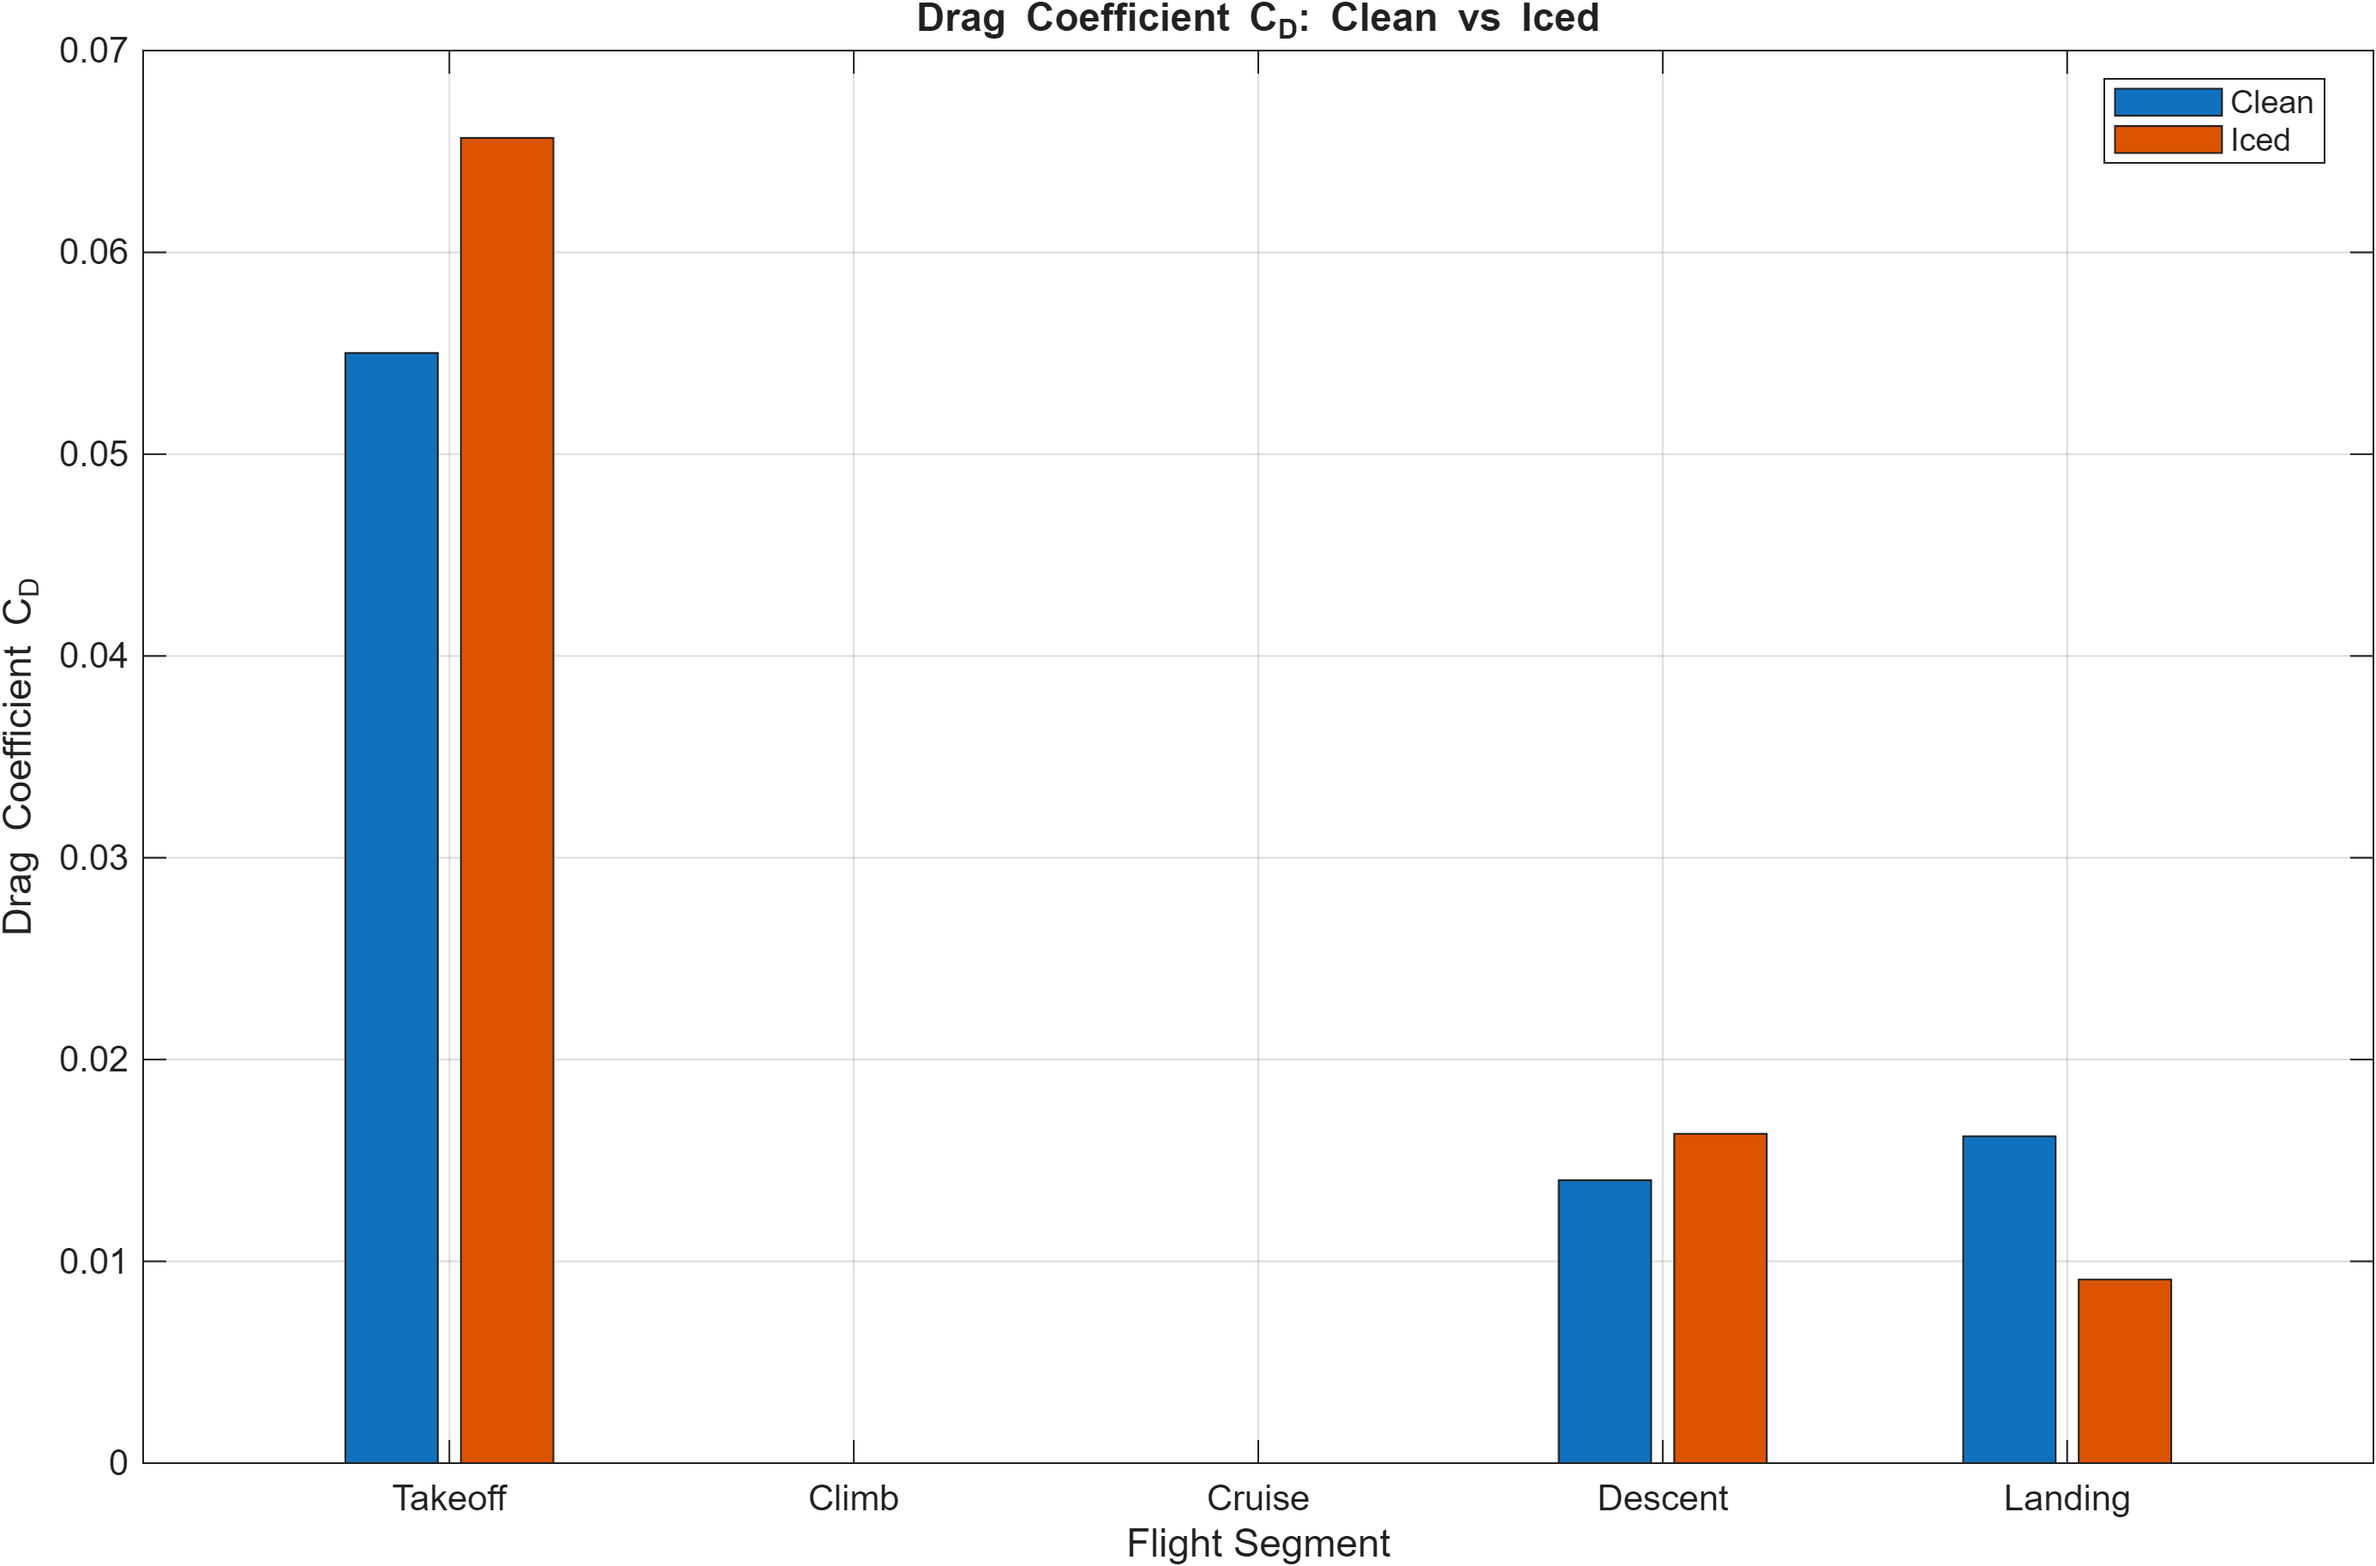
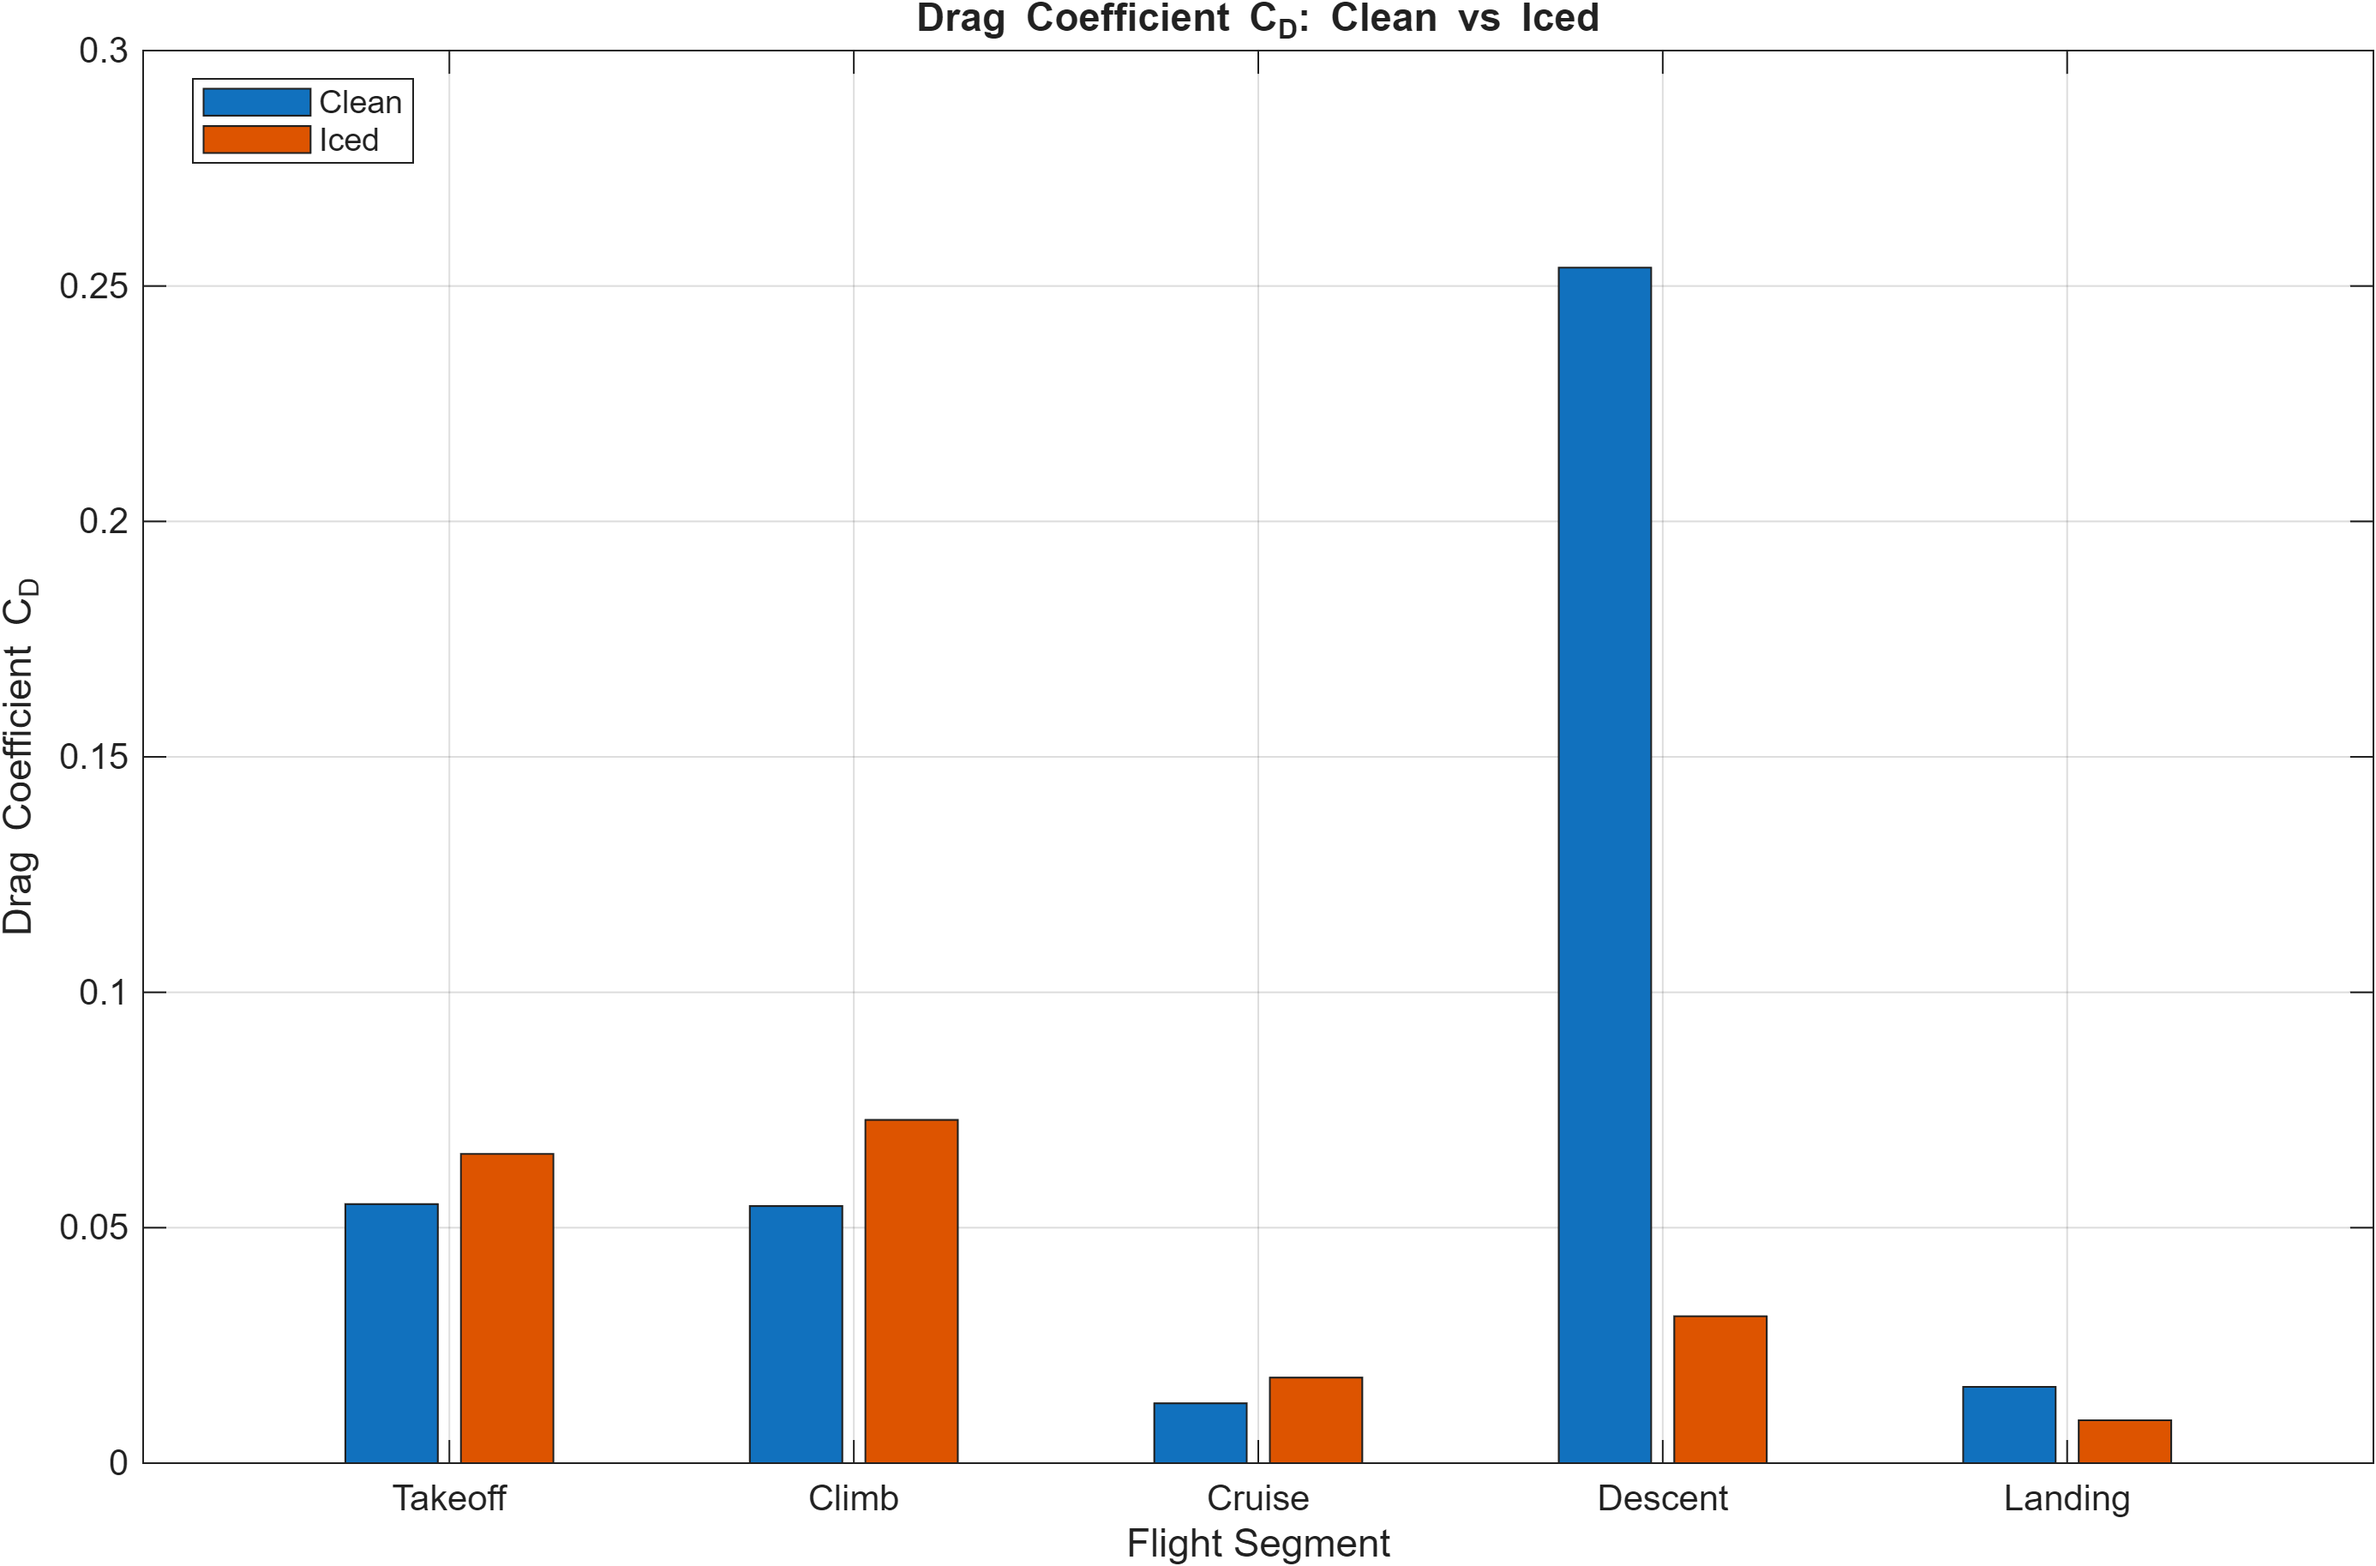
updated plots

diff --git a/src/plot_flight_comparison.m b/src/plot_flight_comparison.m
@@ -4,16 +4,16 @@ clc
 segments = ["Takeoff"; "Climb"; "Cruise"; "Descent"; "Landing"];
 
 % Clean data
-CL_clean = [0.80684; 0; 0; 0.3470; 0.6802];
-CD_clean = [0.055013; 0; 0; 0.01402; 0.0162];
-mf_clean = [332.67; 0; 0; 5251.9; 51.32];
+CL_clean = [0.80684; 0.8013; 0.31079; 0.5154 ; 0.6802];
+CD_clean = [0.055013; 0.0546; 0.012710; 0.2539; 0.0162];
+mf_clean = [332.67; 6812.7; 12403.974; 1.1211; 51.32];
 
 tbl_clean = make_flight_table(segments, CL_clean, CD_clean, mf_clean);
 
 % Iced data
-CL_iced = [0.82217; 0; 0; 0.1190; 0.4057];
-CD_iced = [0.06567; 0; 0; 0.01632; 0.0091];
-mf_iced = [332.67; 0; 0; 6150.1; 37.54];
+CL_iced = [0.82217; 0.6438; 0.28294; 0.2249; 0.4057];
+CD_iced = [0.06567; 0.0729; 0.018174; 0.0312; 0.0091];
+mf_iced = [338.82; 10454; 18698.711; 247.6; 37.54];
 
 tbl_iced = make_flight_table(segments, CL_iced, CD_iced, mf_iced);
 
